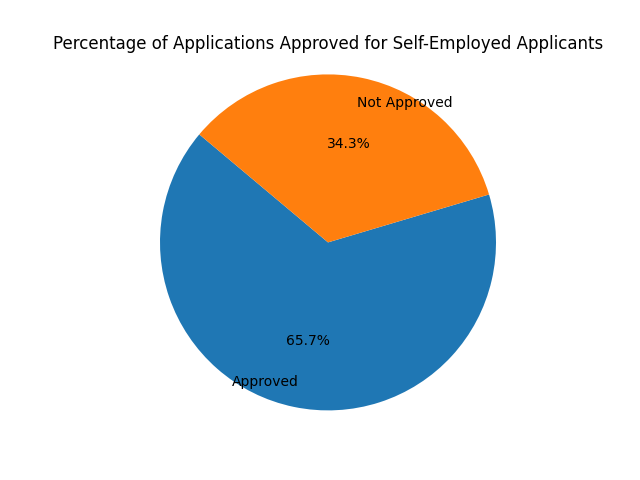
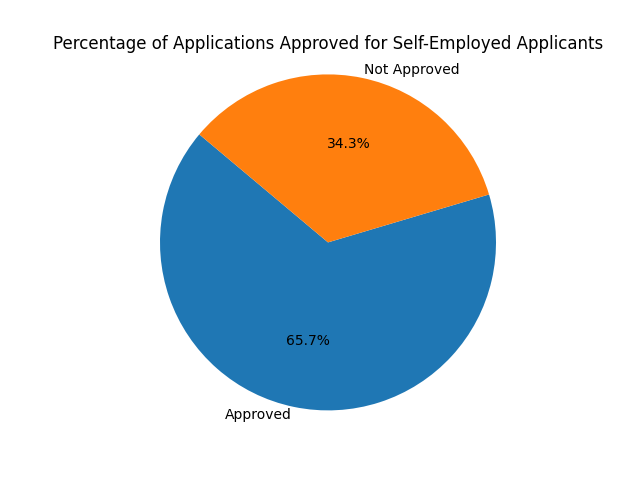
update

diff --git a/capstone_weichenl.py b/capstone_weichenl.py
@@ -176,14 +176,6 @@ cursor = conn.cursor()
 
 # use triple quotes (""") to define a multi-line string
 
-
-""" The f is used to create a formatted SQL query string. 
-It allows embedding Python variables (year, month, and zip_code) directly into the SQL query 
-to create a dynamic query based on the input provided to the function. 
-The expressions inside curly braces {} are replaced with the values of the corresponding variables.
- """
-
-
 def display_transactions_by_zip(year, month, zip_code):
     query = f"""
     SELECT *
@@ -203,9 +195,11 @@ def display_transactions_by_zip(year, month, zip_code):
         for transaction in transactions:
             print(transaction)
 
-
-
-
+""" The f is used to create a formatted SQL query string. 
+It allows embedding Python variables (year, month, and zip_code) directly into the SQL query 
+to create a dynamic query based on the input provided to the function. 
+The expressions inside curly braces {} are replaced with the values of the corresponding variables.
+ """
 
 # Function to display the number and total values of transactions for a given type
 def display_transactions_by_type(transaction_type):
@@ -221,14 +215,6 @@ def display_transactions_by_type(transaction_type):
         total_value_str = "{:.2f}".format(total_value)  # Convert to string with 2 decimal places
         print(f"Number of {transaction_type} transactions: {num_transactions}")
         print(f"Total value of {transaction_type} transactions: {total_value_str}")
-
-
-
-
-
-
-
-
 
 # Function to display the total number and total values of transactions for branches in a given state
 def display_transactions_by_state(state):
@@ -248,11 +234,7 @@ def display_transactions_by_state(state):
         total_value = result[1]
         total_value_str = "{:.2f}".format(total_value)  # Convert to string with 2 decimal places
         print(f"Total number of transactions in {state}: {num_transactions}")
-        print(f"Total value of transactions in {state}: {total_value_str}")
-
-
-
-    
+        print(f"Total value of transactions in {state}: {total_value_str}")    
 
 if __name__ == "__main__":
     while True:
@@ -342,7 +324,6 @@ conn = mysql.connector.connect(
 
 cursor = conn.cursor()
 
-
 # Function to check existing account details of a customer
 def check_customer_account_details(first_name, middle_name, last_name):
     query = f"""
@@ -350,11 +331,9 @@ def check_customer_account_details(first_name, middle_name, last_name):
     FROM CDW_SAPP_CUSTOMER
     WHERE FIRST_NAME = '{first_name}' AND MIDDLE_NAME = '{middle_name}' AND LAST_NAME = '{last_name}';
     """
-
     cursor.execute(query)
     results = cursor.fetchall()
     
-
     if len(results) == 0:
         print("No customer found for the provided name.")
     elif len(results) == 1:
@@ -455,11 +434,8 @@ def generate_monthly_bill(credit_card_no, year, month):
         print("No transactions found for the provided credit card number, year, and month.")
         return
     
-
     # Initialize total_amount
     total_amount = 0
-    
-
     
     print("Monthly Bill:")
     print(f"Credit Card Number: {credit_card_no}")
@@ -588,14 +564,16 @@ def plot_transaction_values(transaction_types, total_transaction_values):
     # Plot the data
     plt.figure(figsize=(12, 6))
     bars = plt.bar(transaction_types, total_transaction_values, color='skyblue')
+    # Add numbers on the bars
     for bar, value in zip(bars, total_transaction_values):
         plt.text(bar.get_x() + bar.get_width() / 2, bar.get_height(), f'{value:.2f}', ha='center', va='bottom', color='black')
-    plt.ylim(min_total_transaction_value - 500, max_total_transaction_value + 500)
+    # Set y-axis limits
+    plt.ylim(min_total_transaction_value - 1000, max_total_transaction_value + 1000)
     plt.xlabel('Transaction Type')
     plt.ylabel('Total Transaction Value')
     plt.title('Total Transaction Value by Transaction Type')
-    plt.xticks(rotation=45)
-    plt.tight_layout()
+    plt.xticks(rotation=45) # Rotate x-axis labels for better readability
+    plt.tight_layout() # Ensure labels fit into the figure
     plt.show()
 
 def plot_customer_count(customer_count_by_state_sorted):
@@ -605,10 +583,10 @@ def plot_customer_count(customer_count_by_state_sorted):
     plt.xlabel('State')
     plt.ylabel('Customer Count')
     plt.title('Customer Count by State')
-    plt.xticks(rotation=45)
+    plt.xticks(rotation=45)  # Rotate x-axis labels for better visibility
     plt.show()
 
-
+# Print the highest customer count and its corresponding state
 def display_highest_customer_count_state(customer_count_by_state_sorted):
     highest_customer_count_state = customer_count_by_state_sorted.idxmax()
     highest_customer_count = customer_count_by_state_sorted.max()
@@ -623,22 +601,31 @@ conn.close()  # Close the database connection
 #cdw_sapp_credit_card_df.head()
 
 # Process transaction data
+# Group by transaction type and sum the transaction values for each type
 transaction_value_sum = cdw_sapp_credit_card_df.groupby('TRANSACTION_TYPE')['TRANSACTION_VALUE'].sum().reset_index()
+# Rename the column to 'Total Transaction Value'
 transaction_value_sum = transaction_value_sum.rename(columns={'TRANSACTION_VALUE': 'Total_Transaction_Value'})
+# Sort by total transaction value in descending order
 transaction_value_sum_sorted = transaction_value_sum.sort_values(by='Total_Transaction_Value', ascending=False)
+# Extract transaction types and total transaction values
 transaction_types = transaction_value_sum_sorted['TRANSACTION_TYPE'].tolist()
 total_transaction_values = transaction_value_sum_sorted['Total_Transaction_Value'].tolist()
+# Find the minimum and maximum values in the list
 min_total_transaction_value = np.min(total_transaction_values)
 max_total_transaction_value = np.max(total_transaction_values)
 
 # Plot transaction values
 plot_transaction_values(transaction_types, total_transaction_values)
 
+
 # Find and display the highest transaction value and type
+# Find the index of the maximum transaction value
 index_of_max_transaction_value = np.argmax(total_transaction_values)
+# Get the transaction type with the maximum transaction value
 highest_transaction_type = transaction_types[index_of_max_transaction_value]
 highest_transaction_value = total_transaction_values[index_of_max_transaction_value]
 print(f"Highest transaction value: {highest_transaction_value:.2f} for transaction type {highest_transaction_type}")
+
 
 
 # REQ 3.2 Find and plot which state has a high number of customers.
@@ -650,19 +637,28 @@ conn.close()  # Close the database connection
 #cdw_sapp_customer_df.head()
 
 # Process customer data
+# Count the number of customers in each state using "CUST_STATE"
 customer_count_by_state = cdw_sapp_customer_df['CUST_STATE'].value_counts()
+# Sort by customer count in descending order
 customer_count_by_state_sorted = customer_count_by_state.sort_values(ascending=False)
 
 # Plot customer count by state
 plot_customer_count(customer_count_by_state_sorted)
 display_highest_customer_count_state(customer_count_by_state_sorted)
 
+
+
 # REQ 3.3 Find and plot the sum of all transactions for the top 10 customers, and which customer has the highest transaction amount.
-transaction_sum_by_customer = cdw_sapp_credit_card_df.groupby('CUST_SSN').agg({'TRANSACTION_VALUE': 'sum'}).reset_index()
+# Group by customer SSN and sum the transaction values for each customer
+transaction_sum_by_customer = cdw_sapp_credit_card_df.groupby('CUST_SSN').agg({'TRANSACTION_VALUE': 'sum'}).reset_index() # Reset the index to make it a regular DataFrame
+# Rename the column to 'Total_Transaction_Amount'
 transaction_sum_by_customer = transaction_sum_by_customer.rename(columns={'TRANSACTION_VALUE': 'Total_Transaction_Amount'})
+# Sort by total transaction amount in descending order
 transaction_sum_by_customer_sorted = transaction_sum_by_customer.sort_values(by='Total_Transaction_Amount', ascending=False)
+# Select the top 10 customers
 top_10_customers = transaction_sum_by_customer_sorted.head(10)
 #print(top_10_customers)
+
 
 # Plot total transaction amount for top 10 customers
 plt.figure(figsize=(12, 6))
@@ -683,7 +679,7 @@ plt.xticks(range(len(top_10_customers)), [str(int(ssn)) for ssn in top_10_custom
 
 plt.show()
 
-# Display the highest transaction amount and the respective customer
+# Display the customer with the highest transaction amount
 customer_highest_transaction = top_10_customers.iloc[0]
 print(f"Customer SSN: {int(customer_highest_transaction['CUST_SSN'])} with the highest transaction amount {customer_highest_transaction['Total_Transaction_Amount']:.2f}")
 
@@ -726,7 +722,7 @@ status_code = get_api_status_code(api_endpoint)
 print("Status code:", status_code)
 
 
-# REQ 4.3 utilize PySpark to load data into RDBMS (SQL)
+# REQ 4.3 Utilize PySpark to load data into RDBMS (SQL)
 # Create a Spark session
 spark = SparkSession.builder.appName("LoanApplicationLoader").getOrCreate()
 
@@ -774,32 +770,45 @@ def fetch_data_and_create_df(sql_query):
 
 # REQ 5.1: Find and plot the percentage of applications approved for self-employed applicants.
 loan_data_df = fetch_data_and_create_df("SELECT * FROM cdw_sapp_loan_application;")
+# Filter the data for self-employed applicants
 self_employed_df = loan_data_df[loan_data_df['Self_Employed'] == 'Yes']
-percentage_approved = (self_employed_df['Application_Status'].value_counts(normalize=True) * 100)['Y']
+# Calculate the percentage of applications approved for self-employed applicants
+total_self_employed = len(self_employed_df)
+approved_self_employed = len(self_employed_df[self_employed_df['Application_Status'] == 'Y'])
+percentage_approved = (approved_self_employed / total_self_employed) * 100
+# percentage_approved = (self_employed_df['Application_Status'].value_counts(normalize=True) * 100)['Y']
 
+# Plot the percentage
 labels = ['Approved', 'Not Approved']
 sizes = [percentage_approved, 100 - percentage_approved]
-plt.pie(sizes, labels=labels, autopct='%1.1f%%', startangle=140, labeldistance=0.85)
+plt.pie(sizes, labels=labels, autopct='%1.1f%%', startangle=140, labeldistance=1.05)
 plt.title('Percentage of Applications Approved for Self-Employed Applicants')
-plt.axis('equal')
+plt.axis('equal')  # Equal aspect ratio ensures that pie is drawn as a circle.
 plt.show()
 
 # REQ 5.2: Find the percentage of rejection for married male applicants.
+# Filter the data for married male applicants
 married_male_rejected = loan_data_df[(loan_data_df['Married'] == 'Yes') & (loan_data_df['Gender'] == 'Male') & (loan_data_df['Application_Status'] == 'N')]
-percentage_rejected = (len(married_male_rejected) / len(loan_data_df[(loan_data_df['Married'] == 'Yes') & (loan_data_df['Gender'] == 'Male')])) * 100
+# Calculate the percentage of rejections for married male applicants
+total_married_male = len(loan_data_df[(loan_data_df['Married'] == 'Yes') & (loan_data_df['Gender'] == 'Male')])
+percentage_rejected = (len(married_male_rejected) / total_married_male) * 100
 
+# Plot the percentage
 labels = ['Rejected', 'Approved']
 sizes = [percentage_rejected, 100 - percentage_rejected]
 plt.pie(sizes, labels=labels, autopct='%1.1f%%', startangle=140)
-plt.title('Percentage of Rejections for Married Male Applicants')
+plt.title('Percentage of Rejections for Married Male Applicants') # Equal aspect ratio ensures that pie is drawn as a circle.
 plt.axis('equal')
 plt.show()
 
 # REQ 5.3: Find and plot the top three months with the largest volume of transaction data.
 cdw_sapp_credit_card_df = fetch_data_and_create_df("SELECT * FROM cdw_sapp_credit_card;")
+# Extract year and month from the 'TIMEID' column
 cdw_sapp_credit_card_df['Transaction_Year'] = cdw_sapp_credit_card_df['TIMEID'].str[:4]
 cdw_sapp_credit_card_df['Transaction_Month'] = cdw_sapp_credit_card_df['TIMEID'].str[4:6]
+# Group by year and month and sum the transaction values to get the transaction volume
 transaction_volume_by_month = cdw_sapp_credit_card_df.groupby(['Transaction_Year', 'Transaction_Month'])['TRANSACTION_VALUE'].sum()
+# Sort the transaction volume in descending order and select the top three
 top_three_months = transaction_volume_by_month.sort_values(ascending=False).head(3)
 
 plt.figure(figsize=(10, 6))
@@ -809,30 +818,38 @@ plt.xlabel('Month')
 plt.ylabel('Transaction Volume')
 plt.title('Top Three Months with the Largest Transaction Volume')
 
+# Annotate each bar with its value
 for p in ax.patches:
     ax.annotate(f'{p.get_height():,.0f}', (p.get_x() + p.get_width() / 2., p.get_height()), ha='center', va='bottom', fontsize=8, color='black', xytext=(0, 5), textcoords='offset points')
 
-plt.xticks(rotation=0)
+plt.xticks(rotation=0) # Remove rotation for month labels
 plt.tight_layout()
 plt.show()
 
 # REQ 5.4: Find and plot which branch processed the highest total dollar value of healthcare transactions.
+# Filter healthcare transactions
 healthcare_transactions = cdw_sapp_credit_card_df[cdw_sapp_credit_card_df['TRANSACTION_TYPE'] == 'Healthcare']
+# Group by branch and sum the transaction values for healthcare transactions
 healthcare_by_branch = healthcare_transactions.groupby('BRANCH_CODE')['TRANSACTION_VALUE'].sum()
+# Sort the DataFrame by transaction value in descending order and limit to top 10 branch
 sorted_healthcare_by_branch = healthcare_by_branch.sort_values(ascending=False).head(10)
 
+# Plot all transaction values using a bar plot
 plt.figure(figsize=(12, 6))
 sorted_healthcare_by_branch.plot(kind='bar', color='skyblue')
+# Set Y-axis limits to start from a value slightly lower than the minimum transaction value
 plt.ylim(sorted_healthcare_by_branch.min() - 1000, sorted_healthcare_by_branch.max() + 1000)
 plt.xlabel('Branch Code')
 plt.ylabel('Total Transaction Value')
 plt.title('Total Transaction Value for Healthcare by Branch')
-plt.xticks(rotation=45, fontsize=8)
+plt.xticks(rotation=0, fontsize=8) # Remove rotate x-axis labels for better visibility and adjust fontsize
 
+# Find the branch with the highest total healthcare transaction value
 highest_value_branch = sorted_healthcare_by_branch.idxmax()
 highest_value = sorted_healthcare_by_branch.max()
 
 plt.show()
 
+# Find the branch with the highest total healthcare transaction value
 print("Branch with the highest healthcare transaction value:", highest_value_branch)
 print("Total transaction value for the highest branch:", highest_value)
